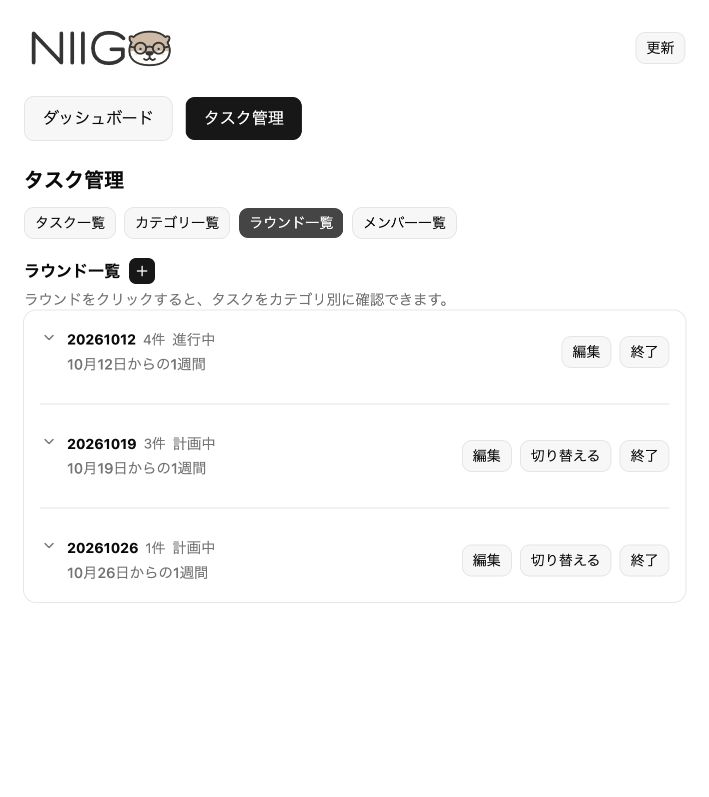
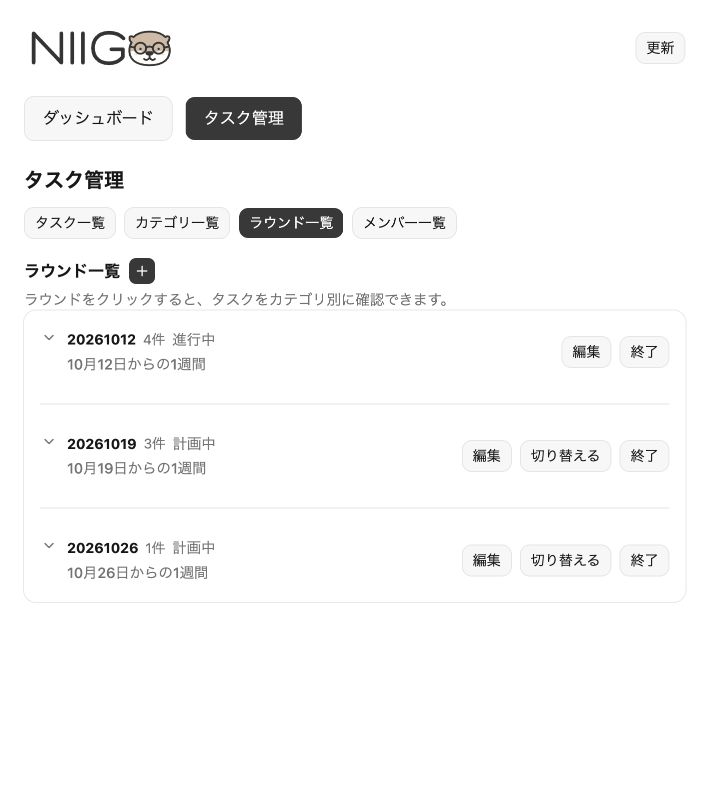
Soften neutral primary and text colors

Changed region(s): [[0.2482, 0.1205, 0.4344, 0.1807], [0.1862, 0.3011, 0.2172, 0.3614]]

diff --git a/ui/src/styles/globals.css b/ui/src/styles/globals.css
@@ -3,12 +3,12 @@
 
 :root {
   --background: oklch(1 0 0);
-  --foreground: oklch(0.145 0 0);
+  --foreground: oklch(0.205 0 0);
   --card: oklch(1 0 0);
-  --card-foreground: oklch(0.145 0 0);
+  --card-foreground: oklch(0.205 0 0);
   --popover: oklch(1 0 0);
-  --popover-foreground: oklch(0.145 0 0);
-  --primary: oklch(0.205 0 0);
+  --popover-foreground: oklch(0.205 0 0);
+  --primary: oklch(0.34 0 0);
   --primary-foreground: oklch(0.985 0 0);
   --secondary: oklch(0.97 0 0);
   --secondary-foreground: oklch(0.205 0 0);
